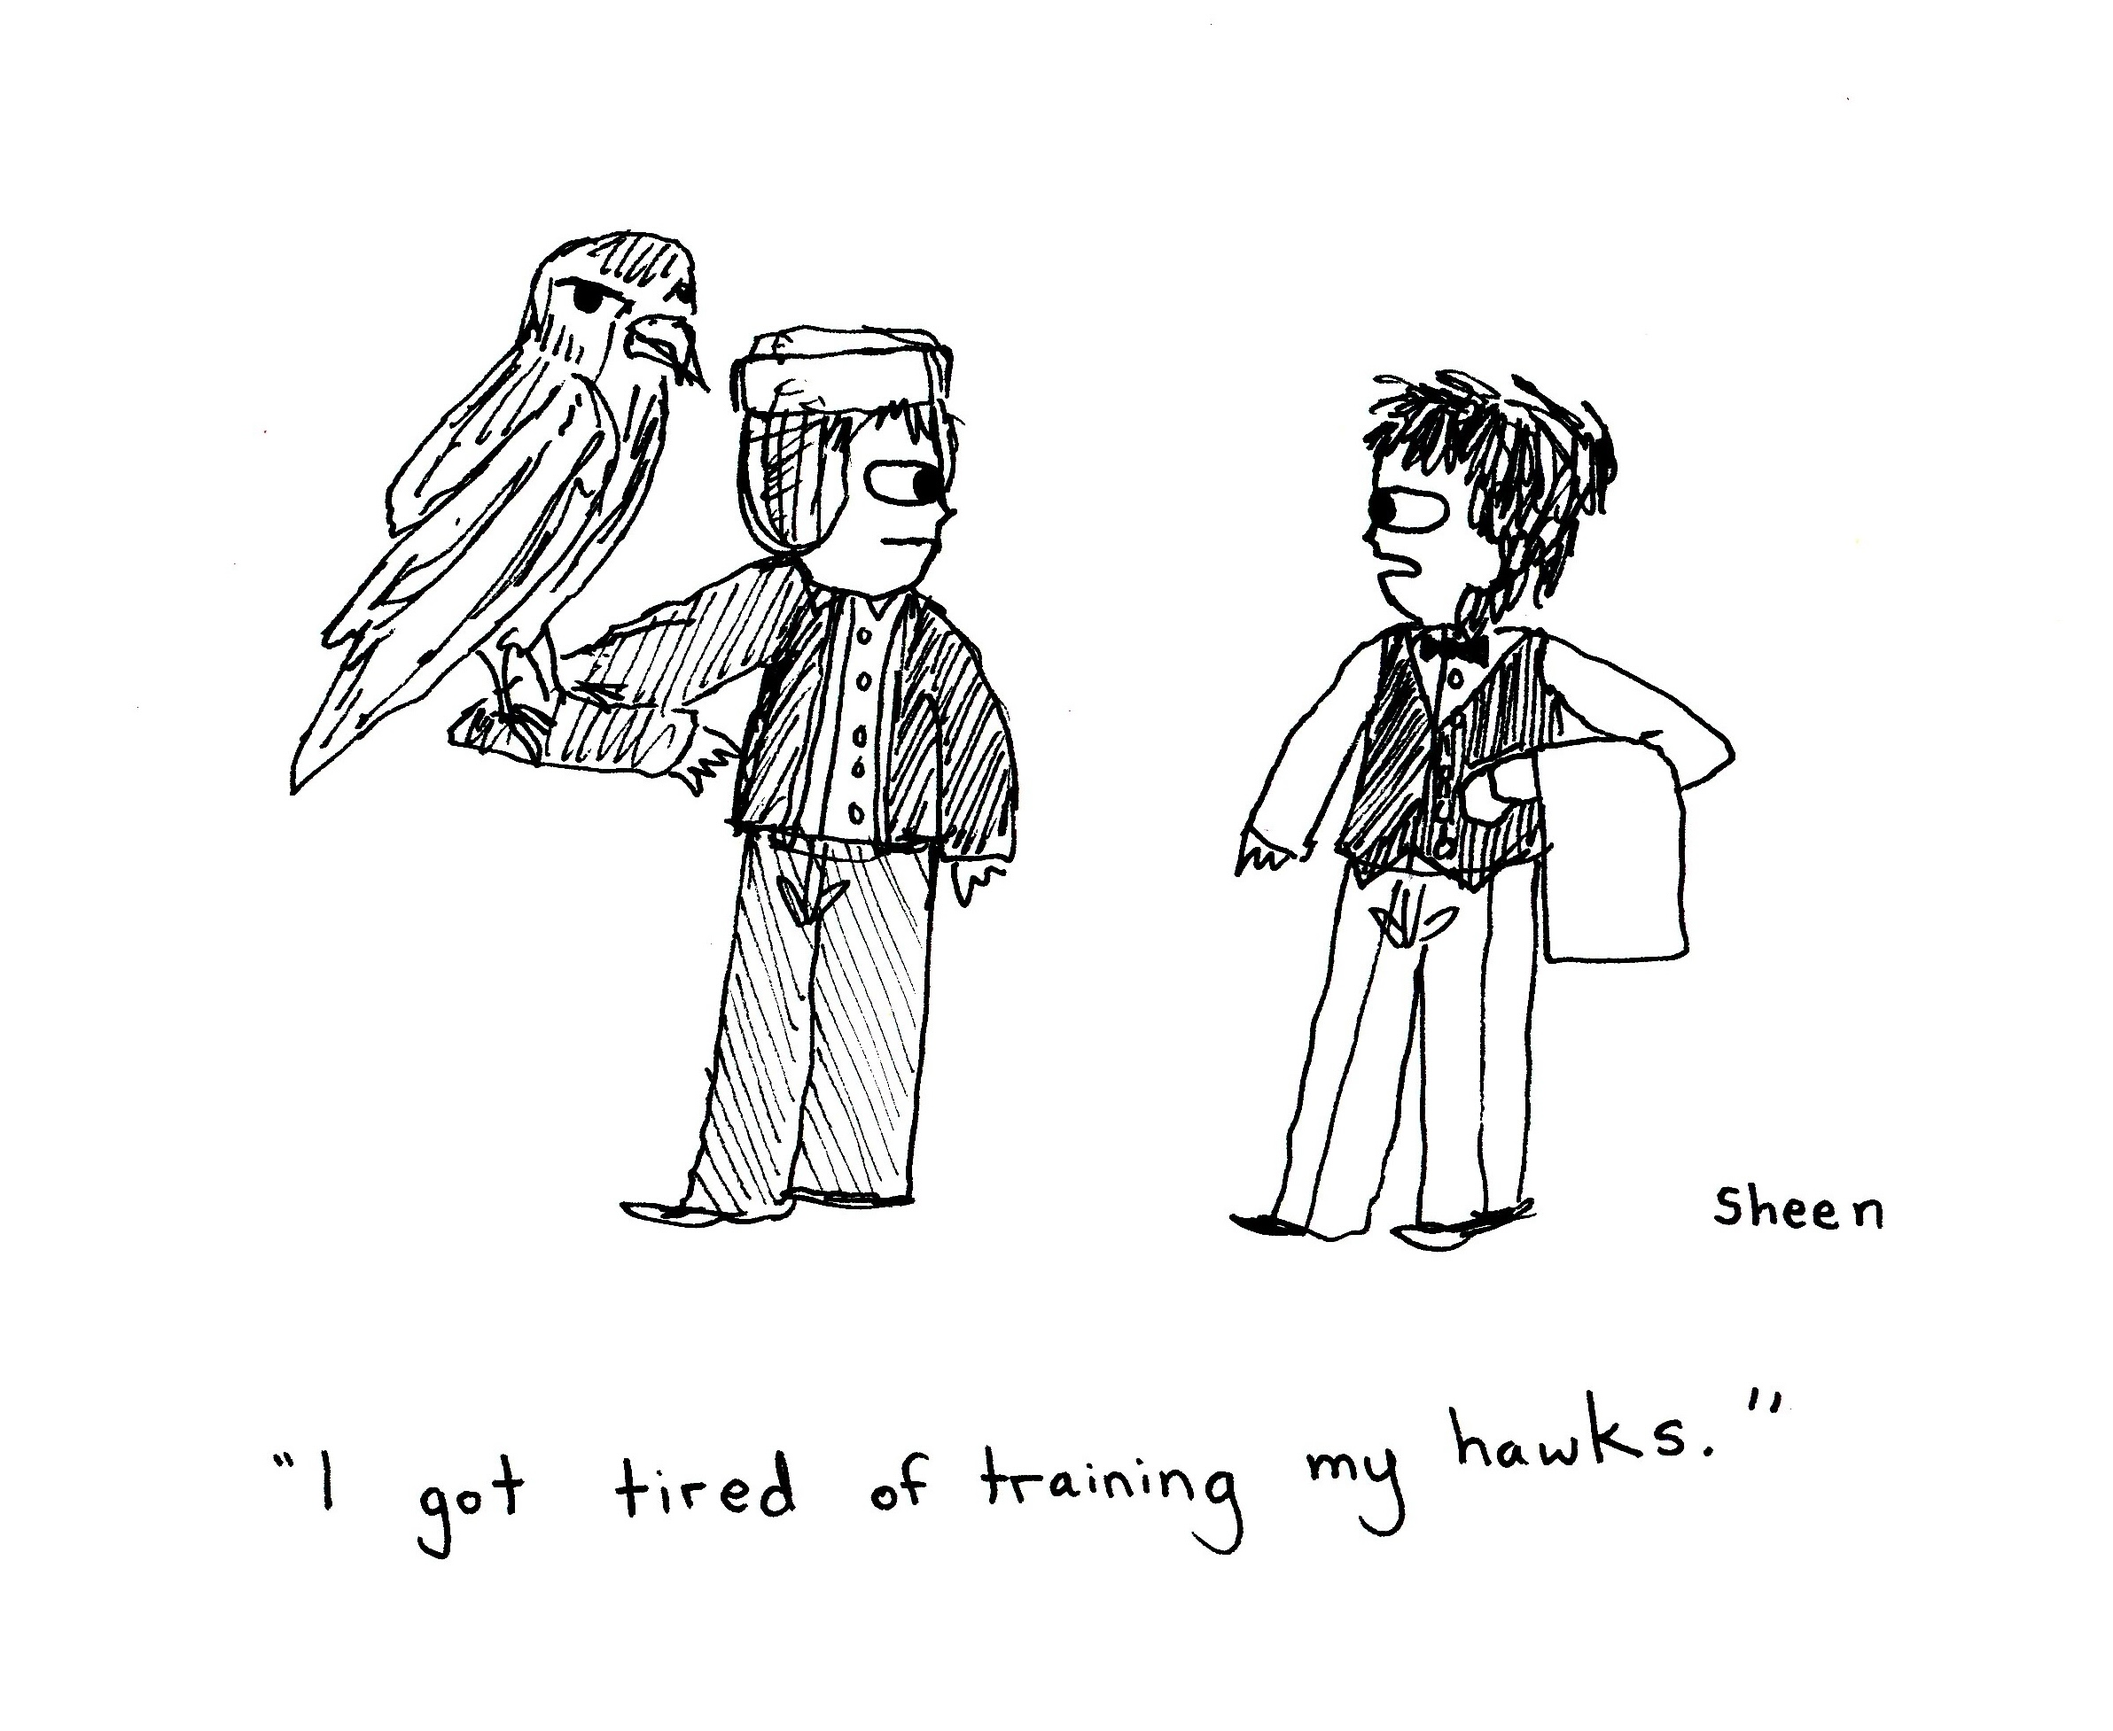
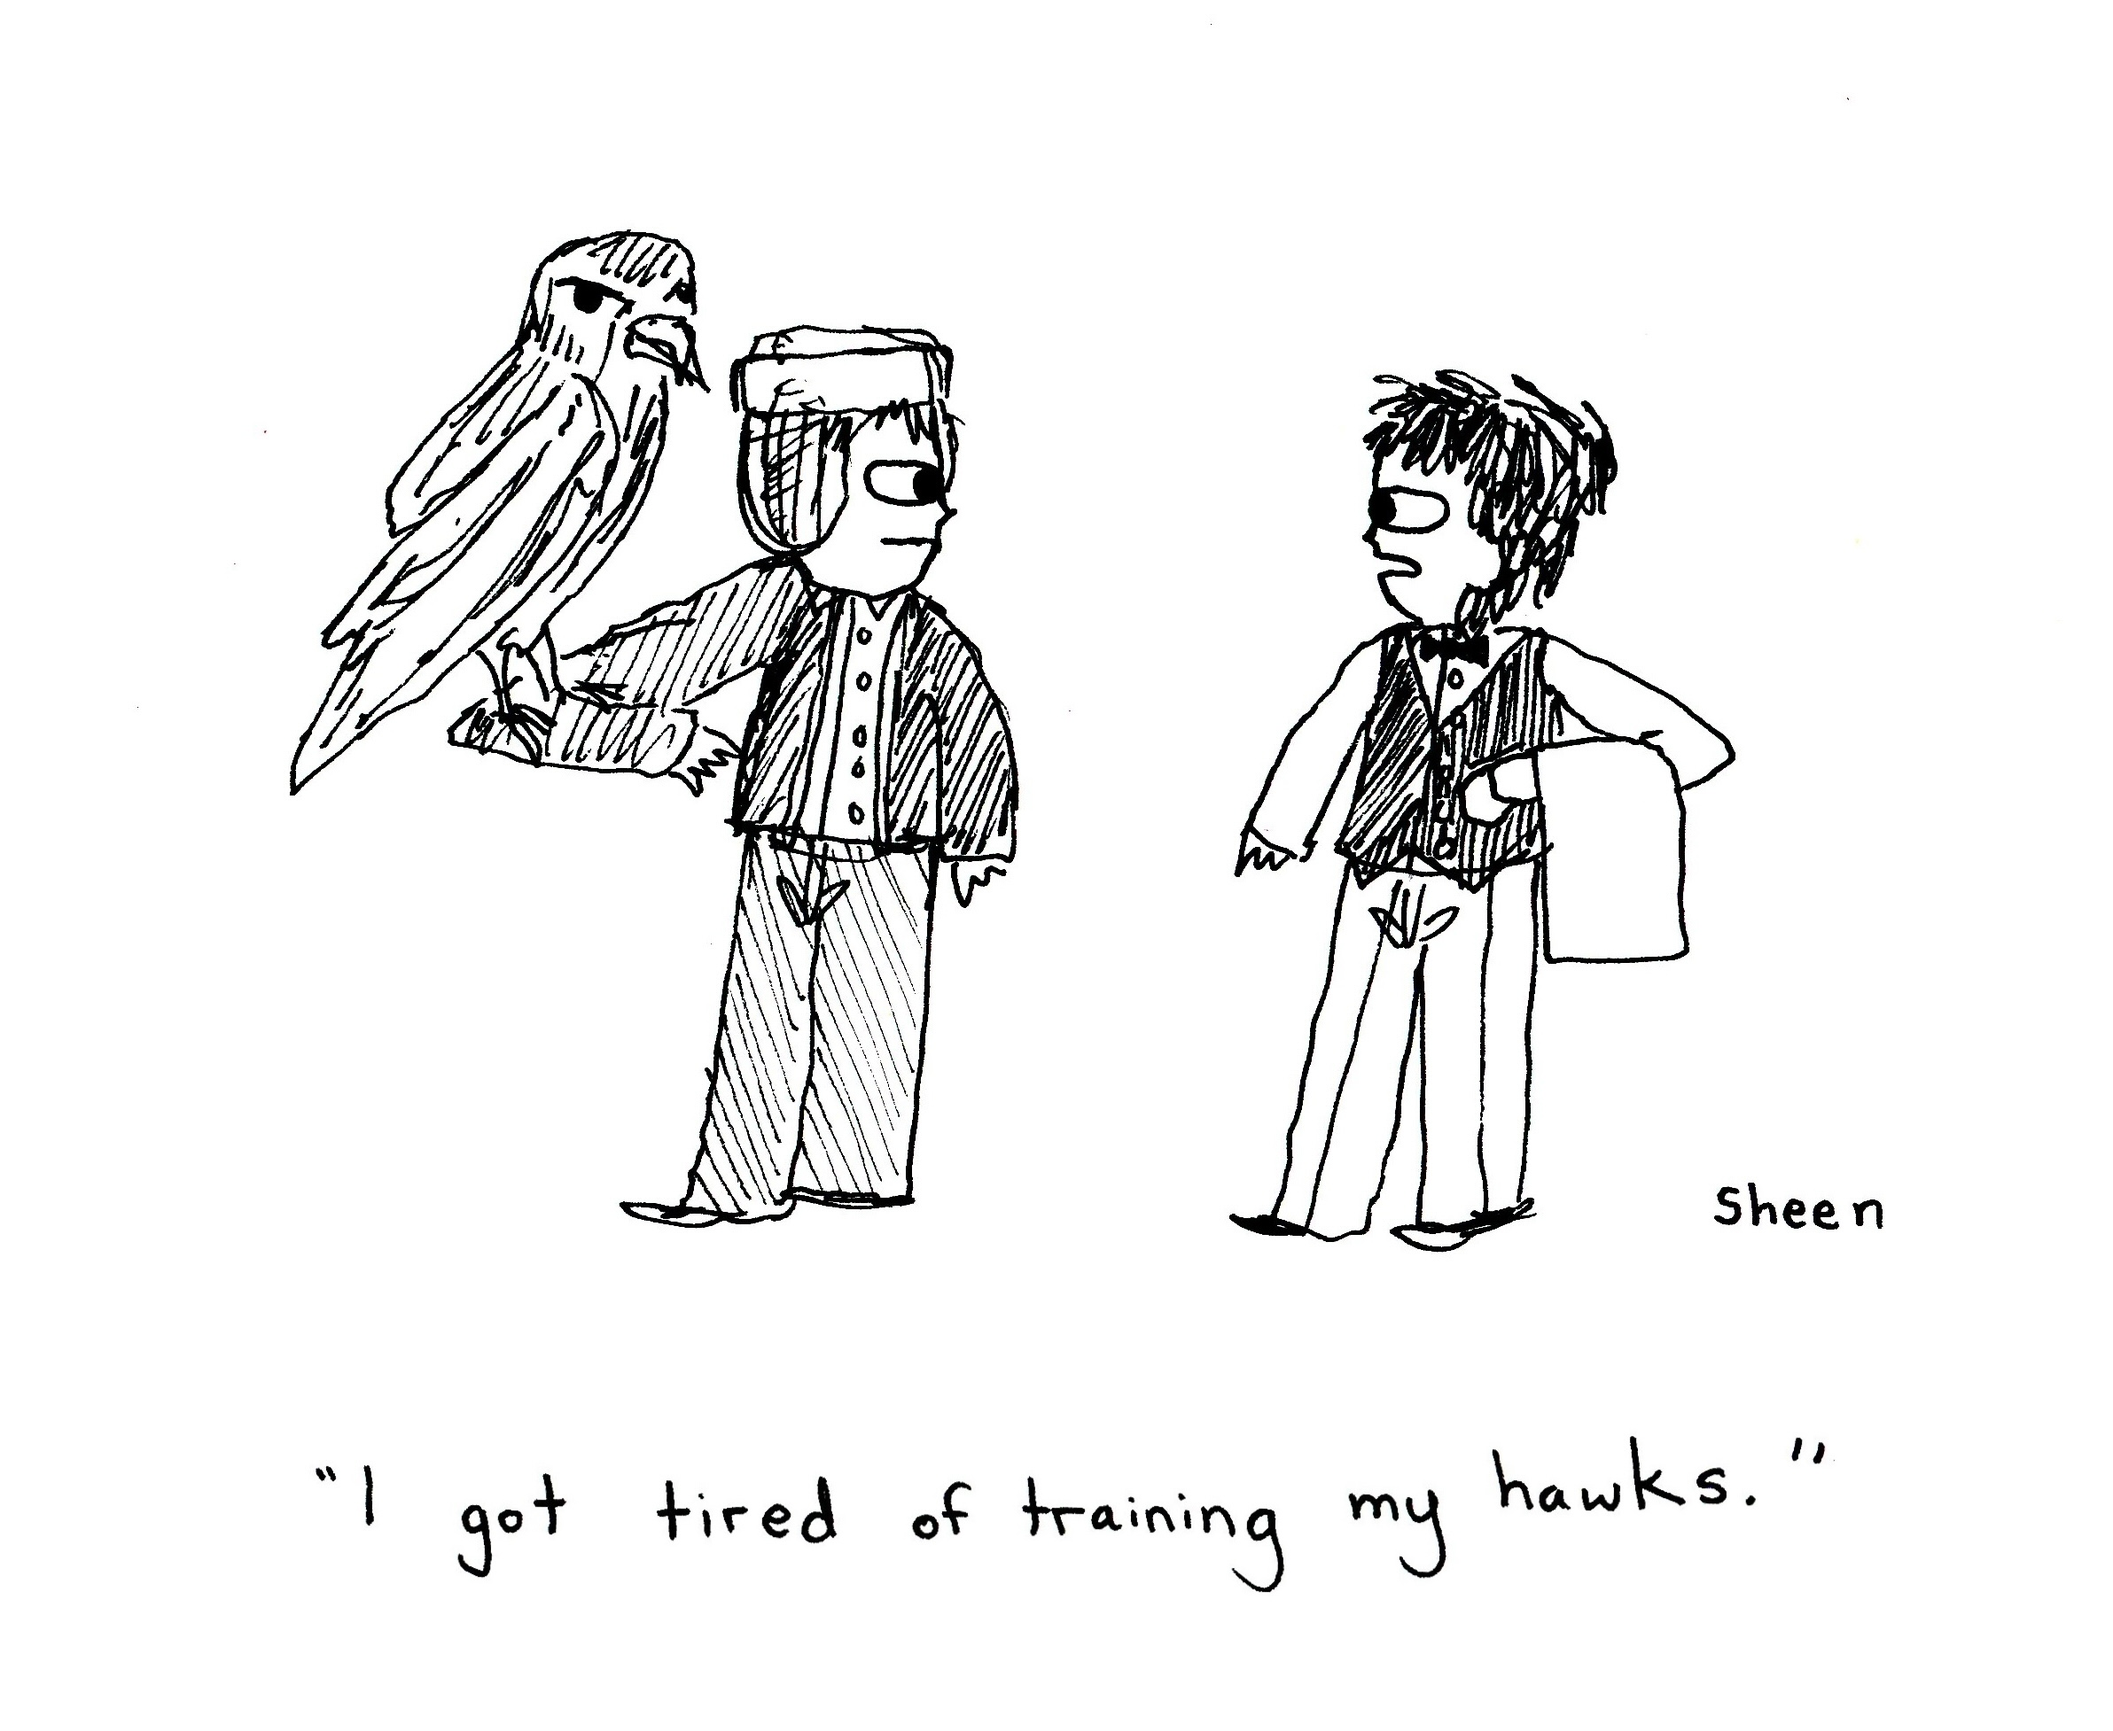
new

Changed region(s): [[0.1242, 0.8429, 0.6208, 0.9053], [0.6208, 0.8117, 0.8381, 0.9053]]

diff --git a/page88.html b/page88.html
@@ -56,11 +56,11 @@ img {height: 500px;}
 
 <!-- main -->
 <div id="wrapper" class="main">
-  <img src="images/spaghetti.jpg" alt="">
+  <img src="images/hawks.jpg" alt="">
     <p style="text-align:left;"></p>
-  <p><a href='page88.html' style="text-decoration: none; color: black;"><</a> 
+  <p><a href='page87.html' style="text-decoration: none; color: black;"><</a> 
     <a href='latebloom.html' style="text-decoration: none; color: black;">&#9638</a>
-    <a href='page71.html' style="text-decoration: none; color: black;">></a> </p>
+    <a href='page70.html' style="text-decoration: none; color: black;">></a> </p>
 </div> 
 </body>
 </html> 

diff --git a/page87.html b/page87.html
@@ -60,7 +60,7 @@ img {height: 500px;}
     <p style="text-align:left;"></p>
   <p><a href='page86.html' style="text-decoration: none; color: black;"><</a> 
     <a href='latebloom.html' style="text-decoration: none; color: black;">&#9638</a>
-    <a href='page70.html' style="text-decoration: none; color: black;">></a> </p>
+    <a href='page88.html' style="text-decoration: none; color: black;">></a> </p>
 </div> 
 </body>
 </html> 

diff --git a/latebloom.html b/latebloom.html
@@ -89,6 +89,7 @@ img {height: 100px;}
   <div class="column">
     <a href="page86.html"><img src="images/dore.jpg" alt=""></a>
     <a href="page87.html"><img src="images/bats.jpg" alt=""></a>
+    <a href="page88.html"><img src="images/hawks.jpg" alt=""></a>
   </div>
   <br><br><br><br><br><br><br><br><br><br>
 </div> 
